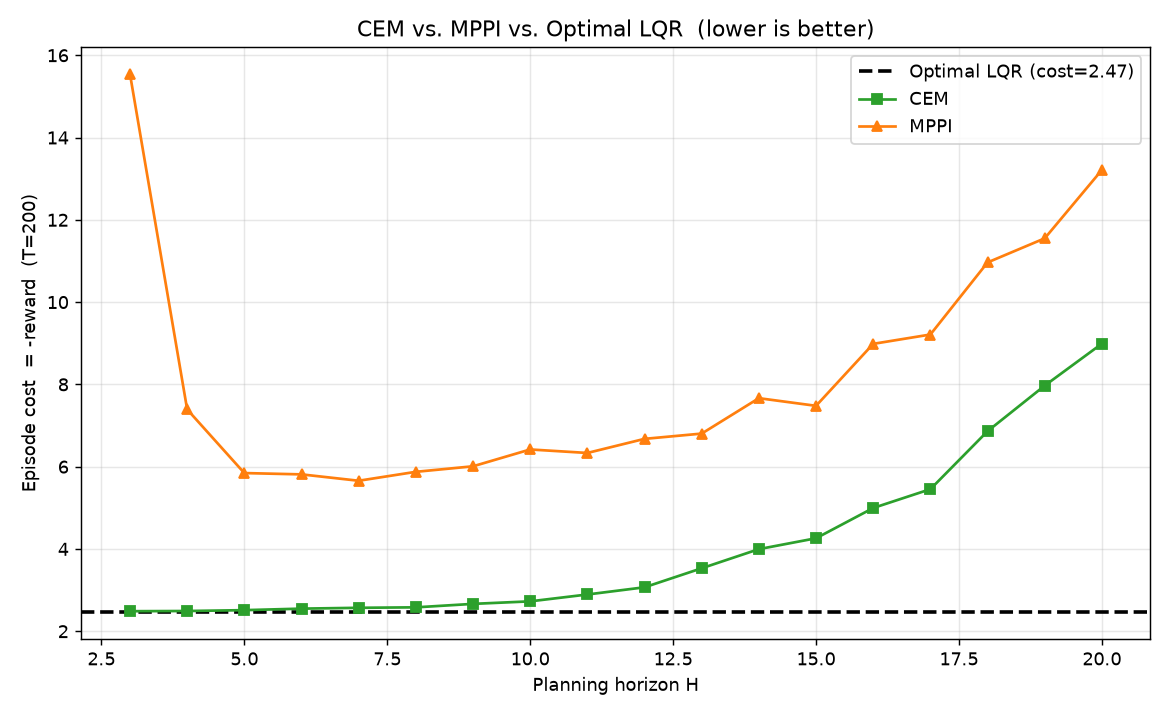
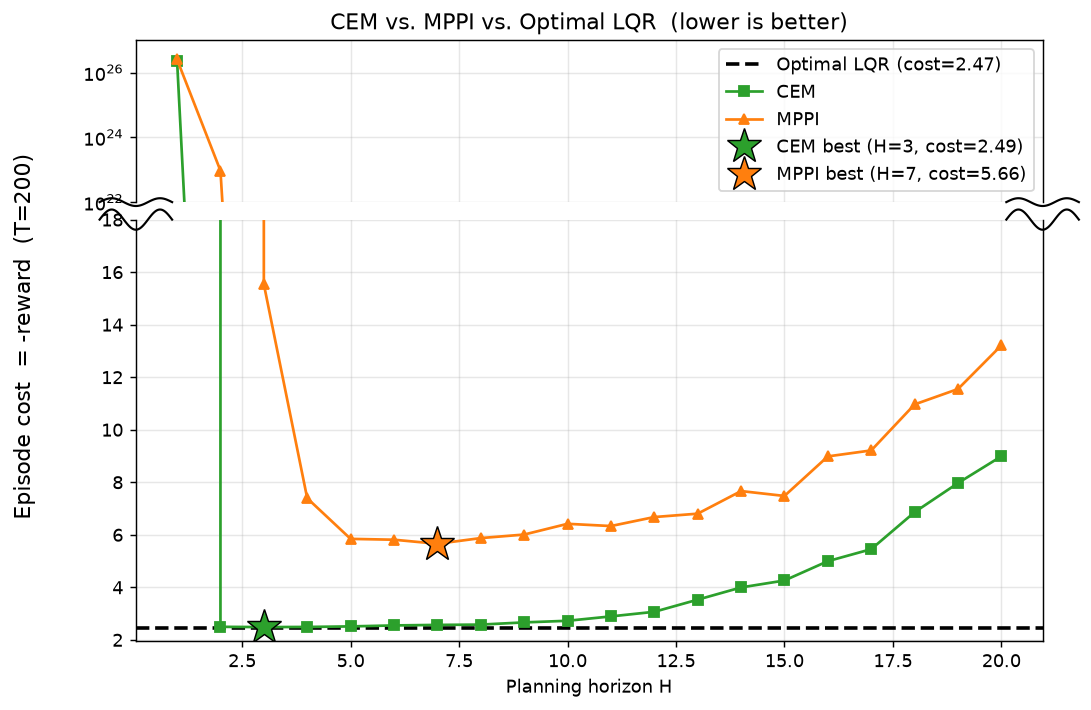
畫了一些圖

diff --git a/compare.py b/compare.py
@@ -73,6 +73,21 @@ CONFIG_SIG = np.array([
 ], dtype=np.float64)
 
 
+def _draw_break(ax_hi, ax_lo) -> None:
+    """Draw wavy (~) axis-break marks on the touching edges of two stacked axes."""
+    # a little tilde/squiggle, in axes-fraction coords, drawn at both x-ends
+    n = 60
+    xx = np.linspace(0, 1, n)
+    wiggle = 0.6 * np.sin(np.linspace(0, 3 * np.pi, n))  # ~ shape
+    for ax, edge in ((ax_hi, 0.0), (ax_lo, 1.0)):        # bottom of hi, top of lo
+        for x0 in (0.0, 1.0):                            # left and right corners
+            span = 0.04
+            xs = x0 + (xx - 0.5) * 2 * span
+            ys = edge + wiggle * span
+            ax.plot(xs, ys, transform=ax.transAxes, color="k",
+                    lw=1.2, clip_on=False, zorder=10)
+
+
 def make_env() -> LQREnv:
     return LQREnv(seed=SEED, **ENV_KWARGS)
 
@@ -179,31 +194,70 @@ def main():
         plt.savefig(out, dpi=130)
         plt.close()
 
-    def make_plot_refine(out: str, h_min: int) -> None:
-        """CEM vs. MPPI vs. optimal only, on a LINEAR y-axis."""
+    def make_plot_refine(out: str, h_min: int, y_break: float = 18.0) -> None:
+        """CEM vs. MPPI vs. optimal, with a BROKEN y-axis.
+
+        The bottom panel is linear up to ``y_break`` (where all the interesting
+        behaviour lives); costs above it (the diverging short horizons) are shown
+        on a log-scaled top panel, with squiggle break marks in between.
+        """
         idx = [i for i, H in enumerate(HORIZONS) if H >= h_min]
         hs = [HORIZONS[i] for i in idx]
-        plt.figure(figsize=(9, 5.5))
-        plt.axhline(opt_cost, color="black", ls="--", lw=2,
-                    label=f"Optimal LQR (cost={opt_cost:.2f})")
-        plt.plot(hs, [cem_cost[i] for i in idx], "s-", color="tab:green", label="CEM")
-        plt.plot(hs, [mppi_cost[i] for i in idx], "^-", color="tab:orange", label="MPPI")
-        plt.xlabel("Planning horizon H")
-        plt.ylabel(f"Episode cost  = -reward  (T={T})")
-        plt.title("CEM vs. MPPI vs. Optimal LQR  (lower is better)")
-        plt.legend()
-        plt.grid(True, alpha=0.3)
-        plt.tight_layout()
-        plt.savefig(out, dpi=130)
-        plt.close()
+        cem = [cem_cost[i] for i in idx]
+        mppi = [mppi_cost[i] for i in idx]
+
+        fig, (ax_hi, ax_lo) = plt.subplots(
+            2, 1, sharex=True, figsize=(9, 6),
+            gridspec_kw=dict(height_ratios=[1, 2.6], hspace=0.06),
+        )
+
+        for ax in (ax_hi, ax_lo):
+            ax.axhline(opt_cost, color="black", ls="--", lw=2,
+                       label=f"Optimal LQR (cost={opt_cost:.2f})")
+            ax.plot(hs, cem, "s-", color="tab:green", label="CEM")
+            ax.plot(hs, mppi, "^-", color="tab:orange", label="MPPI")
+            ax.grid(True, alpha=0.3)
+
+        # mark each method's lowest-cost (best) horizon with a star
+        cem_i = int(np.argmin(cem))
+        mppi_i = int(np.argmin(mppi))
+        for ax in (ax_hi, ax_lo):
+            ax.plot(hs[cem_i], cem[cem_i], "*", color="tab:green", ms=20,
+                    mec="black", mew=0.8, zorder=6,
+                    label=f"CEM best (H={hs[cem_i]}, cost={cem[cem_i]:.2f})")
+            ax.plot(hs[mppi_i], mppi[mppi_i], "*", color="tab:orange", ms=20,
+                    mec="black", mew=0.8, zorder=6,
+                    label=f"MPPI best (H={hs[mppi_i]}, cost={mppi[mppi_i]:.2f})")
+
+        # bottom: linear detail range
+        ax_lo.set_ylim(opt_cost - 0.5, y_break)
+        # top: log scale covering the diverging costs
+        big = [c for c in cem + mppi if c > y_break]
+        top_lo = 10 ** np.floor(np.log10(min(big)))
+        top_hi = 10 ** np.ceil(np.log10(max(big)))
+        ax_hi.set_yscale("log")
+        ax_hi.set_ylim(top_lo, top_hi)
+
+        # hide the facing spines and draw the squiggle break marks
+        ax_hi.spines["bottom"].set_visible(False)
+        ax_lo.spines["top"].set_visible(False)
+        ax_hi.tick_params(bottom=False)
+        _draw_break(ax_hi, ax_lo)
+
+        ax_hi.set_title("CEM vs. MPPI vs. Optimal LQR  (lower is better)")
+        ax_lo.set_xlabel("Planning horizon H")
+        fig.supylabel(f"Episode cost  = -reward  (T={T})")
+        ax_hi.legend(loc="upper right")
+        fig.savefig(out, dpi=130, bbox_inches="tight")
+        plt.close(fig)
 
     # full sweep, and a zoomed version starting at H=5 (the H=1..2 blow-ups
     # dominate the log scale and hide the differences between the planners).
     make_plot("compare_reward_vs_horizon.png", h_min=min(HORIZONS))
     make_plot("compare_more_horizon.png", h_min=5)
-    # CEM/MPPI-only, linear scale. Start at H=3 so the (diverging) H=1..2 points
-    # don't flatten everything else against the axis.
-    make_plot_refine("compare_cem_mppi.png", h_min=3)
+    # CEM/MPPI-only, starting at H=1, with a broken y-axis: linear detail below
+    # cost=18, log-scaled diverging costs above the squiggle break.
+    make_plot_refine("compare_cem_mppi.png", h_min=1, y_break=18.0)
     print("-" * 70)
     print("Saved plots to compare_reward_vs_horizon.png, compare_more_horizon.png, "
           "and compare_cem_mppi.png")

diff --git a/Assignment Planning in an LQR Environment with CEM and MPPI.md b/Assignment Planning in an LQR Environment with CEM and MPPI.md
@@ -228,4 +228,4 @@ When does the terminal value function help the most? Is it more useful for short
 
 
 
-學長寫的版本: 
+學長寫的版本: https://github.com/248lee/MPC-Assignment